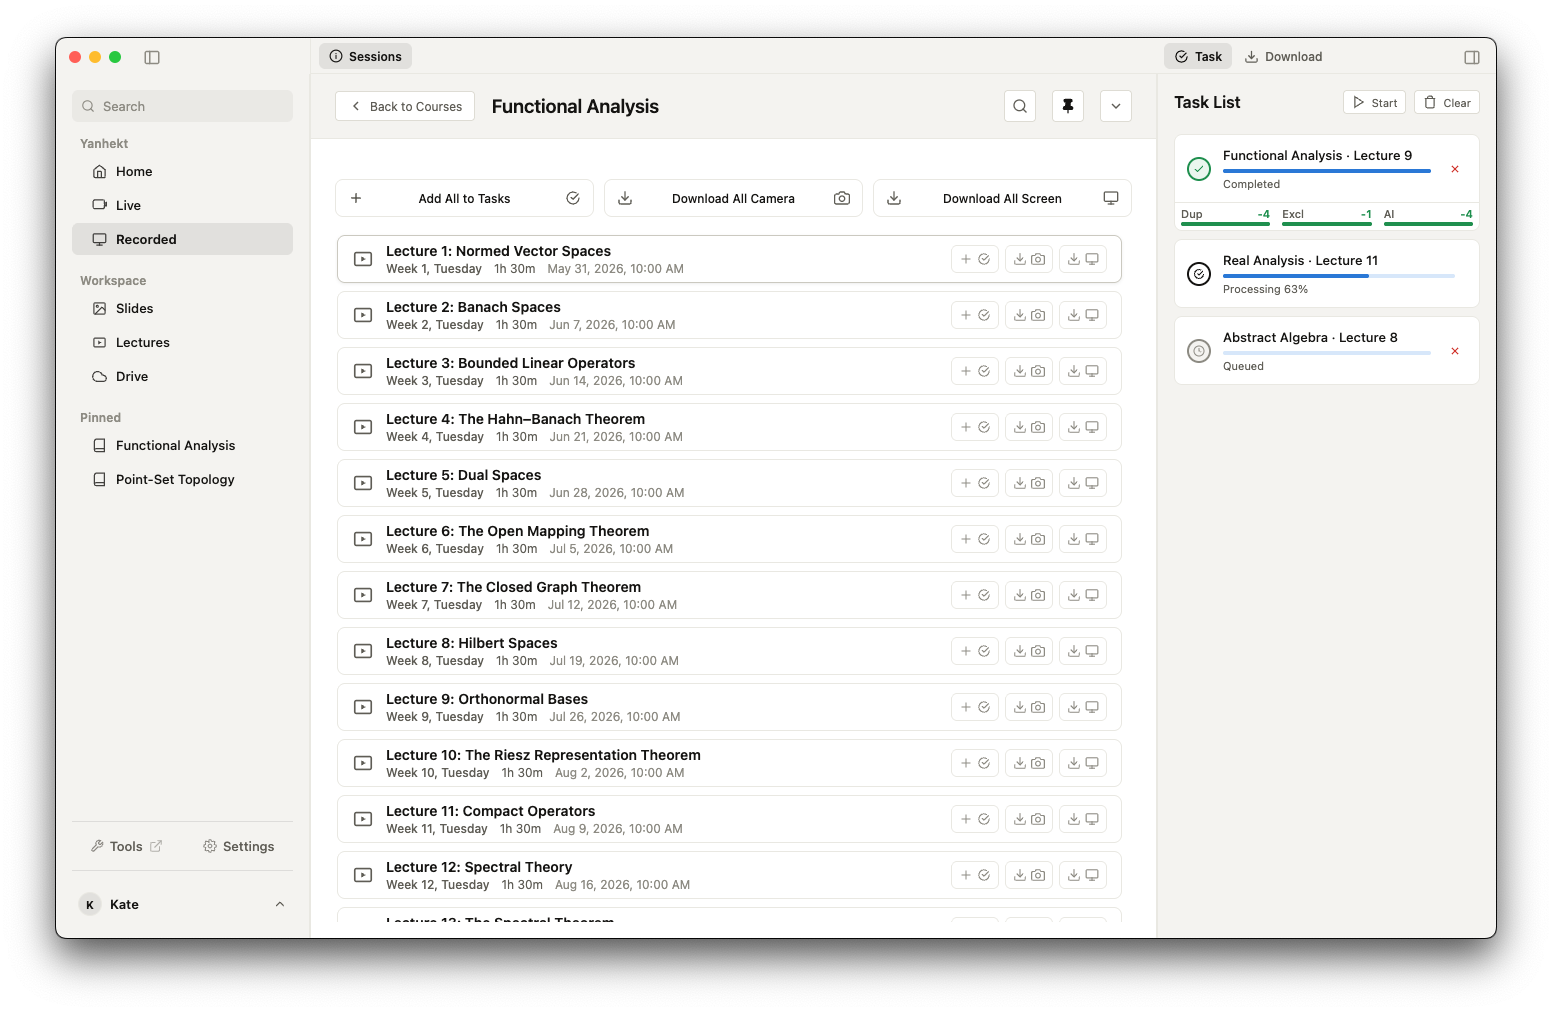
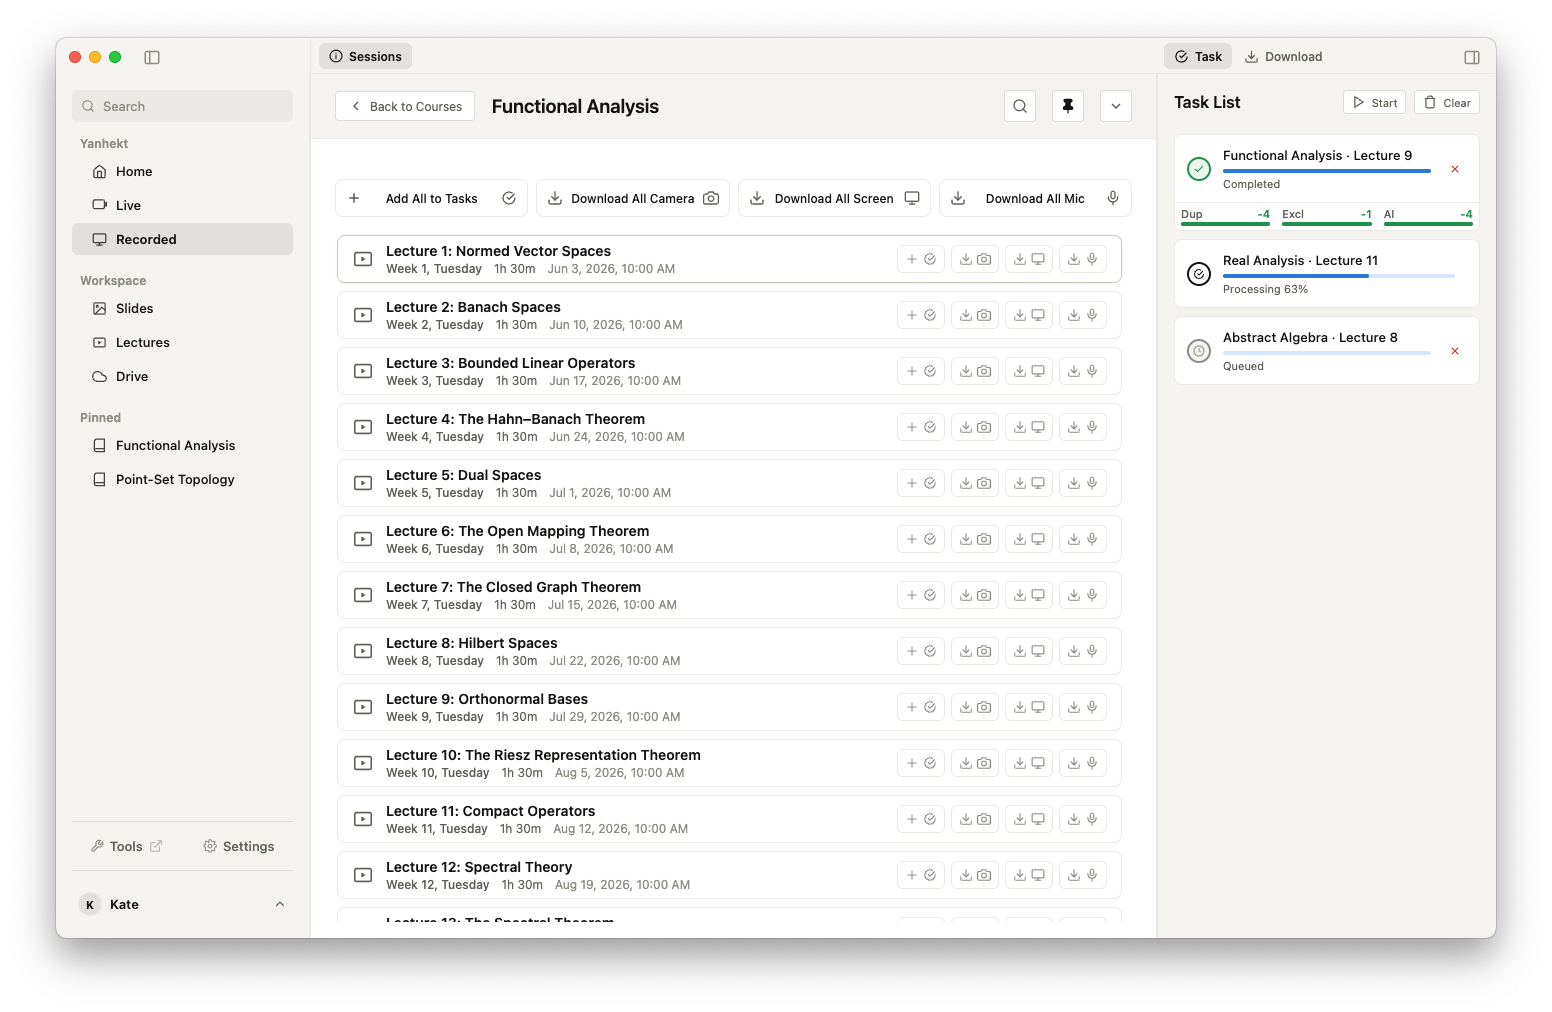
22.39 docs: update documentations

diff --git a/docs/architecture.md b/docs/architecture.md
@@ -1118,7 +1118,7 @@ Unlike the playlists, the AAC is **unsigned and world-readable**: a bare `GET` w
 
 **It is zero-aligned with the video, despite the filename.** `ffprobe` over HTTP reports `aac, 32000 Hz, stereo, duration 5934.74 s` against the API's video `duration: 5936` — so the `09_53_19` is a recorder-clock *label*, not a lead-in, and no offset correction is needed. Do not re-derive this from the filename arithmetic; it looks like a ~100 s lead and is not one.
 
-**What AutoSlides does with it (22.30–22.33).** Yanhekt's own UI warns 音源为蓝牙话筒，若老师未使用蓝牙话筒，则该路音频没有声音 — the track exists per-room and is silent when the teacher did not wear the mic, which is why nothing about it is assumed to be present.
+**What AutoSlides does with it.** Yanhekt's own UI warns 音源为蓝牙话筒，若老师未使用蓝牙话筒，则该路音频没有声音 — the track exists per-room and is silent when the teacher did not wear the mic, which is why nothing about it is assumed to be present.
 
 - **Resolution is lazy and memoised.** Because only `/v1/video` carries the URL, knowing whether a lecture has a mic track costs one request per video id. The session page therefore always shows its mic button and resolves on click; `ApiClient.getMicAudioUrl` caches the answer, including the negative one.
 - **Download** is `main/video/audioDownloadService.ts`, not the m3u8 downloader (no signing, no playlist, no ffmpeg). It writes `<outputDir>/audio_…__c<course>s<session>.aac` via a `.part` temp, and shares the intranet-aware axios factory (`main/infra/intranetAxios.ts`) with the m3u8 path so the campus host rewrite applies. `DownloadItem.videoType` gained `'audio'`; `download:cancel` routes by which service owns the id.
@@ -1208,7 +1208,7 @@ Desktop parks the live CAS cookie jar in memory for 300s (dies on renderer reloa
 | Watch progress PUT | — | — | not allowlisted | — | — |
 | Public live / search | anonymous-ok | proxy; stripped | stripped | — | — |
 | Personal live / private courses / subscribe | auth | proxy; kept | kept | — | — |
-| `/v1/user` | `verifyToken` | proxy | kept; debug also `POST /api/verify-token` | `verifyUser` on publish | — |
+| `/v1/user` | `verifyToken` | proxy | kept | `verifyUser` on publish | — |
 | Logout | `revokeToken` | proxy | kept | — | — |
 | Notes + MinIO | `notesService` | `/api/yanhekt/v1/note*` | kept | — | — |
 | Video token | `getVideoToken` (anonymous-ok) | — | not allowlisted | — | anonymous mint `id=0` |
